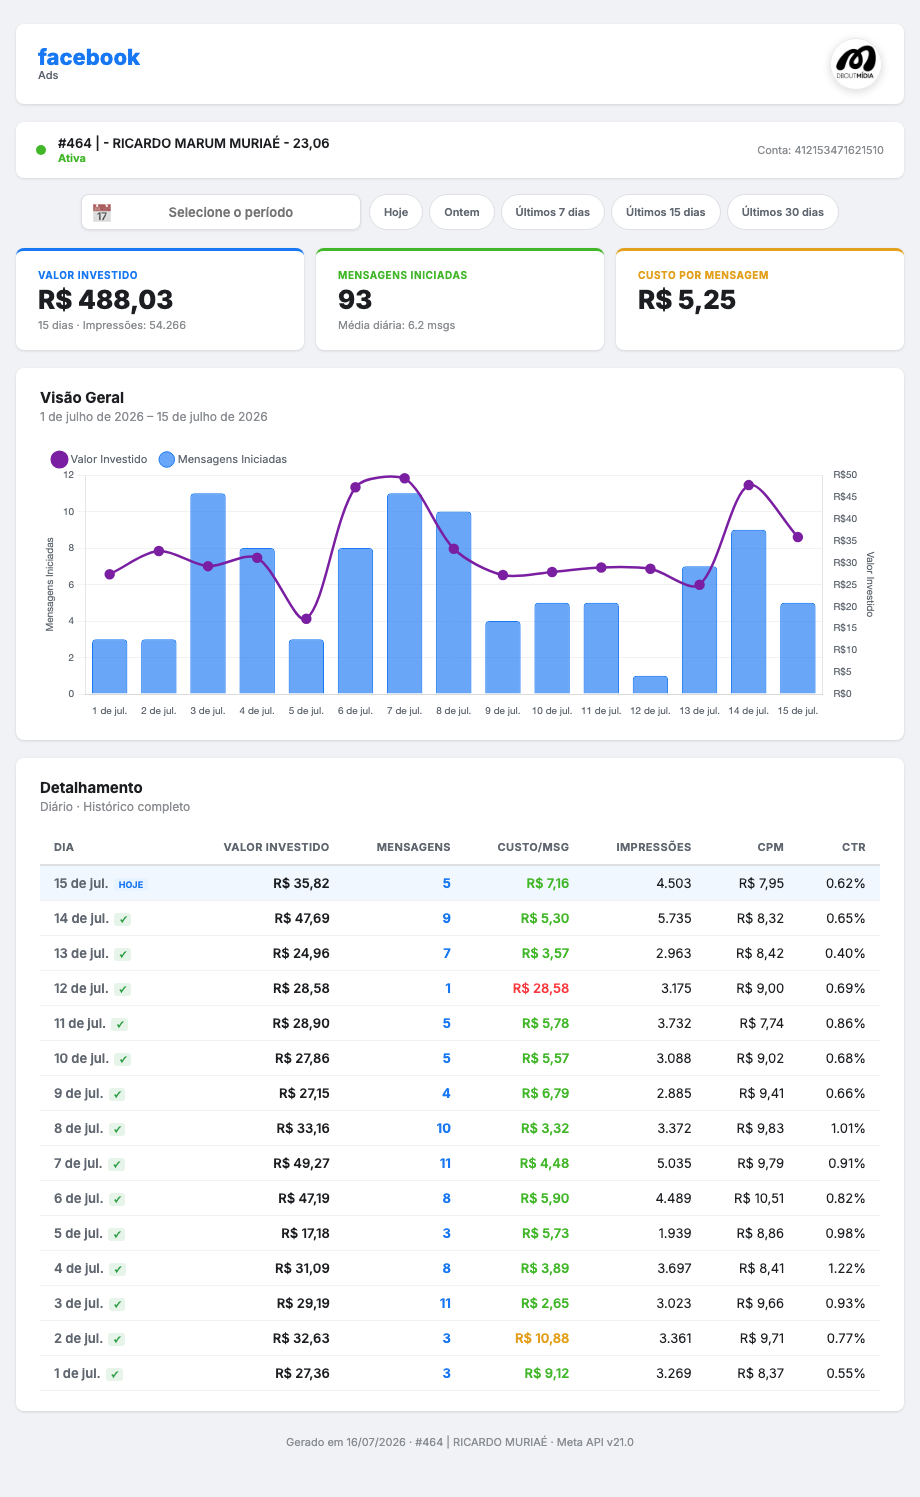
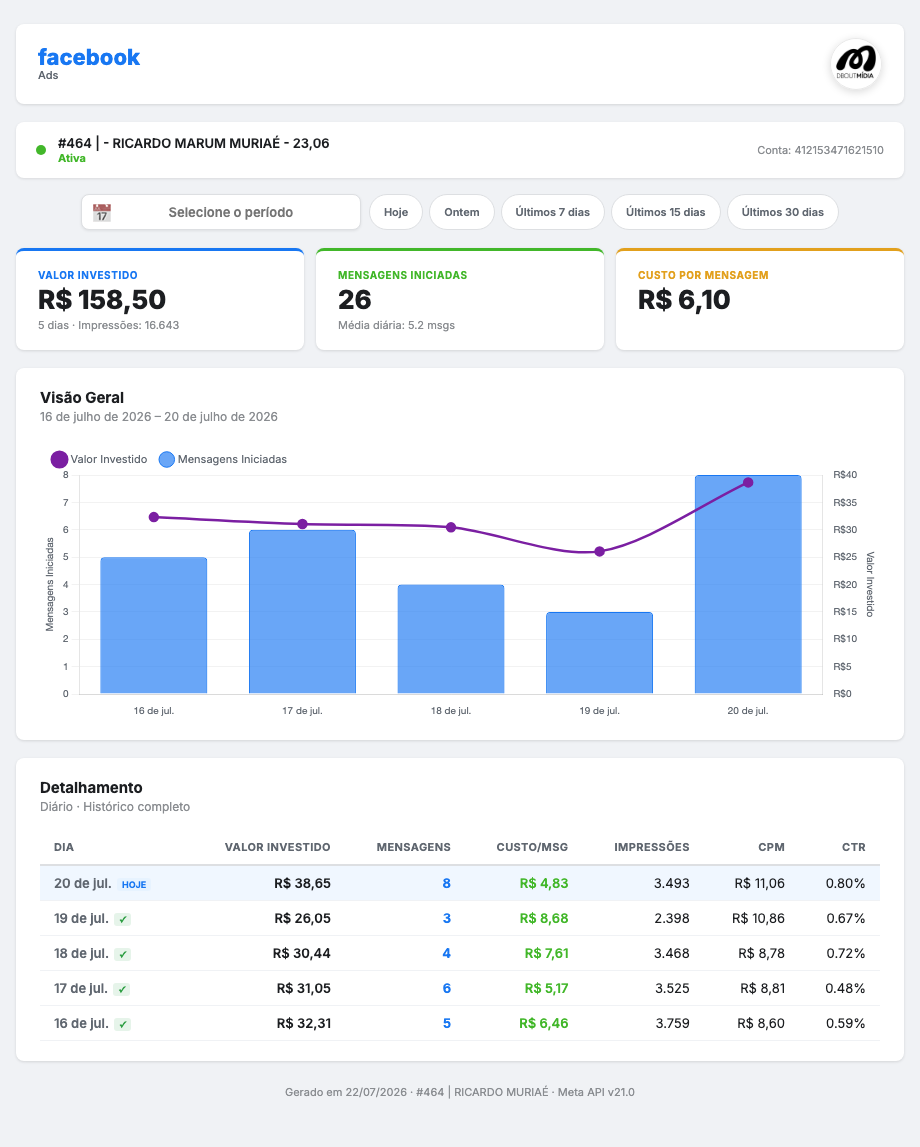
Muriaé #464 — 2026-07-16→2026-07-20

diff --git a/relatorio_igor_464_ricardo_muriae_464.html b/relatorio_igor_464_ricardo_muriae_464.html
@@ -167,15 +167,15 @@ tbody td:first-child{text-align:left;color:#606770;font-weight:600}
 </div>
 
 <div class="footer">
-  Gerado em 16/07/2026 · #464 | RICARDO MURIAÉ · Meta API v21.0
+  Gerado em 22/07/2026 · #464 | RICARDO MURIAÉ · Meta API v21.0
 </div>
 </div>
 
 <script>
-const DAILY = [{"date": "2026-07-15", "spend": 35.82, "msgs": 5, "cost_msg": 7.16, "impr": 4503, "cpm": 7.95, "ctr": 0.62}, {"date": "2026-07-14", "spend": 47.69, "msgs": 9, "cost_msg": 5.3, "impr": 5735, "cpm": 8.32, "ctr": 0.65}, {"date": "2026-07-13", "spend": 24.96, "msgs": 7, "cost_msg": 3.57, "impr": 2963, "cpm": 8.42, "ctr": 0.4}, {"date": "2026-07-12", "spend": 28.58, "msgs": 1, "cost_msg": 28.58, "impr": 3175, "cpm": 9.0, "ctr": 0.69}, {"date": "2026-07-11", "spend": 28.9, "msgs": 5, "cost_msg": 5.78, "impr": 3732, "cpm": 7.74, "ctr": 0.86}, {"date": "2026-07-10", "spend": 27.86, "msgs": 5, "cost_msg": 5.57, "impr": 3088, "cpm": 9.02, "ctr": 0.68}, {"date": "2026-07-09", "spend": 27.15, "msgs": 4, "cost_msg": 6.79, "impr": 2885, "cpm": 9.41, "ctr": 0.66}, {"date": "2026-07-08", "spend": 33.16, "msgs": 10, "cost_msg": 3.32, "impr": 3372, "cpm": 9.83, "ctr": 1.01}, {"date": "2026-07-07", "spend": 49.27, "msgs": 11, "cost_msg": 4.48, "impr": 5035, "cpm": 9.79, "ctr": 0.91}, {"date": "2026-07-06", "spend": 47.19, "msgs": 8, "cost_msg": 5.9, "impr": 4489, "cpm": 10.51, "ctr": 0.82}, {"date": "2026-07-05", "spend": 17.18, "msgs": 3, "cost_msg": 5.73, "impr": 1939, "cpm": 8.86, "ctr": 0.98}, {"date": "2026-07-04", "spend": 31.09, "msgs": 8, "cost_msg": 3.89, "impr": 3697, "cpm": 8.41, "ctr": 1.22}, {"date": "2026-07-03", "spend": 29.19, "msgs": 11, "cost_msg": 2.65, "impr": 3023, "cpm": 9.66, "ctr": 0.93}, {"date": "2026-07-02", "spend": 32.63, "msgs": 3, "cost_msg": 10.88, "impr": 3361, "cpm": 9.71, "ctr": 0.77}, {"date": "2026-07-01", "spend": 27.36, "msgs": 3, "cost_msg": 9.12, "impr": 3269, "cpm": 8.37, "ctr": 0.55}];
+const DAILY = [{"date": "2026-07-20", "spend": 38.65, "msgs": 8, "cost_msg": 4.83, "impr": 3493, "cpm": 11.06, "ctr": 0.8}, {"date": "2026-07-19", "spend": 26.05, "msgs": 3, "cost_msg": 8.68, "impr": 2398, "cpm": 10.86, "ctr": 0.67}, {"date": "2026-07-18", "spend": 30.44, "msgs": 4, "cost_msg": 7.61, "impr": 3468, "cpm": 8.78, "ctr": 0.72}, {"date": "2026-07-17", "spend": 31.05, "msgs": 6, "cost_msg": 5.17, "impr": 3525, "cpm": 8.81, "ctr": 0.48}, {"date": "2026-07-16", "spend": 32.31, "msgs": 5, "cost_msg": 6.46, "impr": 3759, "cpm": 8.6, "ctr": 0.59}];
 const DEFAULT_DAYS = 15;
-const FIXED_SINCE = '2026-07-01';
-const FIXED_UNTIL = '2026-07-15';
+const FIXED_SINCE = '2026-07-16';
+const FIXED_UNTIL = '2026-07-20';
 const PT_M = ['jan','fev','mar','abr','mai','jun','jul','ago','set','out','nov','dez'];
 const PT_MF = ['janeiro','fevereiro','março','abril','maio','junho','julho','agosto','setembro','outubro','novembro','dezembro'];
 let chart=null, activeSince=null, activeUntil=null;
